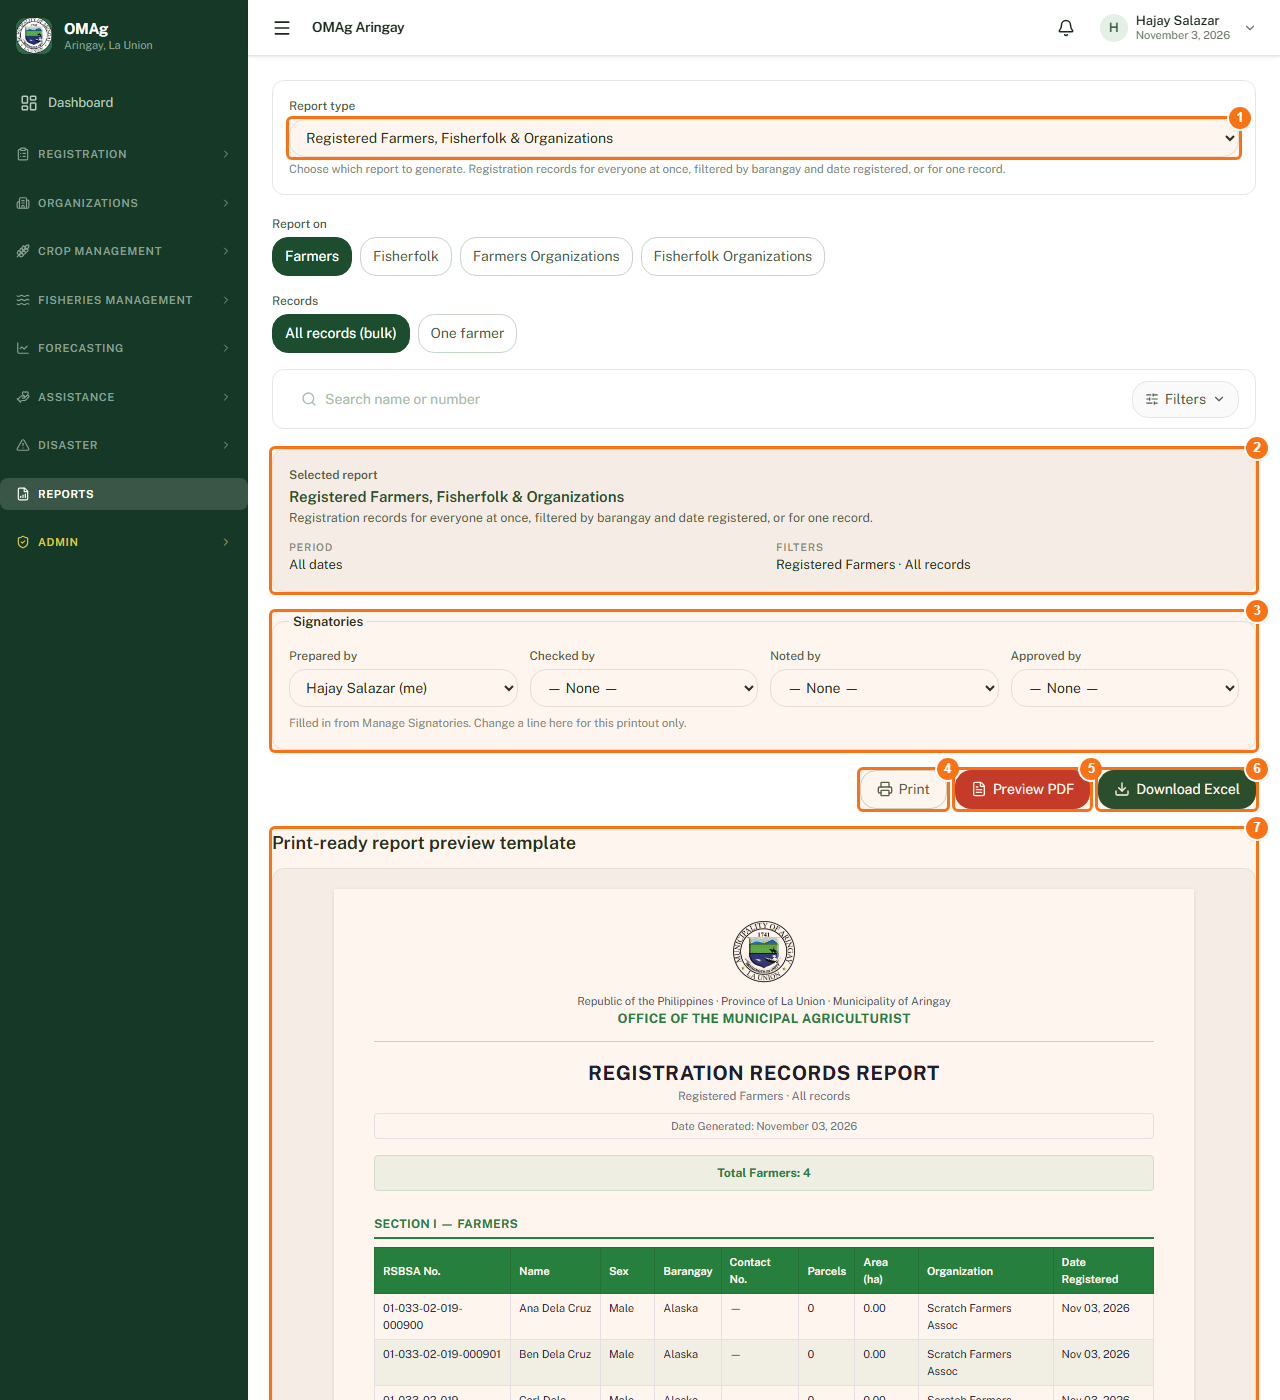
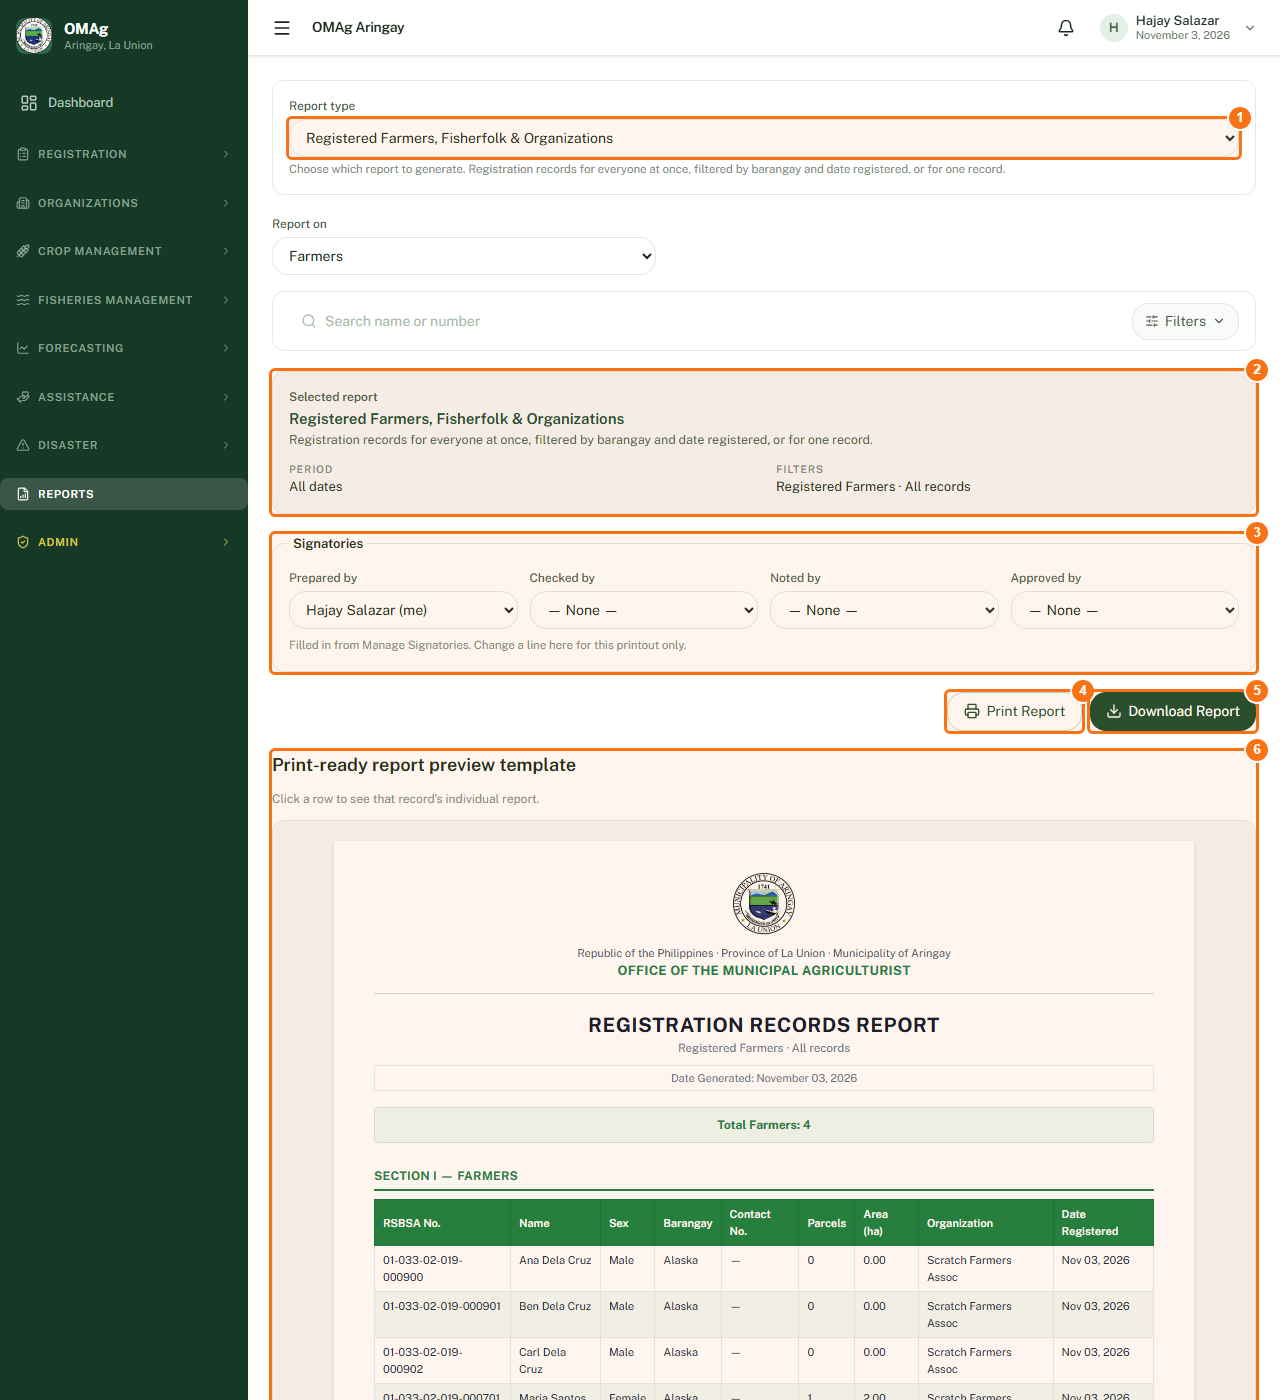
Manual and Help: Print Report / Download Report, the Report on box and the individual report

Changed region(s): [[0.1875, 0.1536, 1.0, 1.0], [0.5, 0.1536, 0.5625, 0.1843], [0.5938, 0.1536, 0.625, 0.1843]]

diff --git a/oma-frontend/src/pages/Manual/manualScreens.js b/oma-frontend/src/pages/Manual/manualScreens.js
@@ -2940,21 +2940,16 @@ export default {
    },
    {
     "n": 4,
-    "label": "Print",
-    "desc": "Opens the report as the same PDF as the preview, ready to print."
+    "label": "Print Report",
+    "desc": "Opens the report as the same PDF as the preview, with the signature lines, ready to print."
    },
    {
     "n": 5,
-    "label": "Preview PDF",
-    "desc": "Shows the report as a PDF to read on screen. The document is titled with the period covered."
+    "label": "Download Report",
+    "desc": "Saves the same report as a PDF file."
    },
    {
     "n": 6,
-    "label": "Download Excel",
-    "desc": "Saves the rows of the report as an Excel file."
-   },
-   {
-    "n": 7,
     "label": "Print-ready preview",
     "desc": "The report as it will print: the letterhead, the title, the period, the tables and the signature lines of the signers you chose. It changes as you change the filters or the signers."
    }
@@ -2975,53 +2970,43 @@ export default {
    },
    {
     "n": 2,
-    "label": "What to report",
-    "desc": "Choose Farmers, Fisherfolk, Farmers Organizations or Fisherfolk Organizations."
+    "label": "Report on",
+    "desc": "Chooses what the report is about: Farmers, Fisherfolk, Farmers Organizations or Fisherfolk Organizations."
    },
    {
     "n": 3,
-    "label": "All records / One record",
-    "desc": "All records (bulk) reports everyone that matches the filters. One farmer (or fisherfolk, organization) searches one person and reports only that record."
+    "label": "Search box",
+    "desc": "Types a name or number to narrow the list. When the search leaves exactly one record, the report becomes that one record's individual report."
    },
    {
     "n": 4,
-    "label": "Search box",
-    "desc": "Type to find the person or organization to report on. The table updates as you type."
-   },
-   {
-    "n": 5,
     "label": "Filters",
     "desc": "Opens the filter row: Barangay and the Registered From / To dates."
    },
    {
-    "n": 6,
+    "n": 5,
     "label": "Selected report",
     "desc": "Repeats the report you chose, what it covers, the period and the filters applied right now."
    },
    {
-    "n": 7,
+    "n": 6,
     "label": "Signatories",
     "desc": "Who signs the report: Prepared by (you, to start with), Checked by, Noted by and Approved by. Choose a name from each list, or leave it on None. The names print at the foot of Print and Preview PDF (Download Excel has no signature lines). The choice is for this printout only; the Admin keeps the names under Admin > Signatories."
    },
    {
+    "n": 7,
+    "label": "Print Report",
+    "desc": "Opens the report as the same PDF as the preview, with the signature lines, ready to print."
+   },
+   {
     "n": 8,
-    "label": "Print",
-    "desc": "Opens the report as the same PDF as the preview, ready to print."
+    "label": "Download Report",
+    "desc": "Saves the same report as a PDF file."
    },
    {
     "n": 9,
-    "label": "Preview PDF",
-    "desc": "Shows the report as a PDF to read on screen. The document is titled with the period covered."
-   },
-   {
-    "n": 10,
-    "label": "Download Excel",
-    "desc": "Saves the rows of the report as an Excel file."
-   },
-   {
-    "n": 11,
     "label": "Print-ready preview",
-    "desc": "The report as it will print: the letterhead, the title, the period, the tables and the signature lines of the signers you chose. It changes as you change the filters or the signers."
+    "desc": "The report as it will print: the letterhead, the title, the period, the tables and the signature lines of the signers you chose. It changes as you change the filters or the signers. Click a row to see that one record's individual report."
    }
   ]
  },
@@ -3055,21 +3040,16 @@ export default {
    },
    {
     "n": 5,
-    "label": "Print",
-    "desc": "Opens the report as the same PDF as the preview, ready to print."
+    "label": "Print Report",
+    "desc": "Opens the report as the same PDF as the preview, with the signature lines, ready to print."
    },
    {
     "n": 6,
-    "label": "Preview PDF",
-    "desc": "Shows the report as a PDF to read on screen. The document is titled with the period covered."
+    "label": "Download Report",
+    "desc": "Saves the same report as a PDF file."
    },
    {
     "n": 7,
-    "label": "Download Excel",
-    "desc": "Saves the rows of the report as an Excel file."
-   },
-   {
-    "n": 8,
     "label": "Print-ready preview",
     "desc": "The report as it will print: the letterhead, the title, the period, the tables and the signature lines of the signers you chose. It changes as you change the filters or the signers. Its columns: Barangay, farmer, organization, crop, area planted and area harvested (ha), the estimated and actual harvest dates, and the estimated yield and actual yield (kg)."
    }
@@ -3105,21 +3085,16 @@ export default {
    },
    {
     "n": 5,
-    "label": "Print",
-    "desc": "Opens the report as the same PDF as the preview, ready to print."
+    "label": "Print Report",
+    "desc": "Opens the report as the same PDF as the preview, with the signature lines, ready to print."
    },
    {
     "n": 6,
-    "label": "Preview PDF",
-    "desc": "Shows the report as a PDF to read on screen. The document is titled with the period covered."
+    "label": "Download Report",
+    "desc": "Saves the same report as a PDF file."
    },
    {
     "n": 7,
-    "label": "Download Excel",
-    "desc": "Saves the rows of the report as an Excel file."
-   },
-   {
-    "n": 8,
     "label": "Print-ready preview",
     "desc": "The report as it will print: the letterhead, the title, the period, the tables and the signature lines of the signers you chose. It changes as you change the filters or the signers. Its columns: Barangay, fisherfolk, organization, species, culture type, date stocked, harvest date, quantity (kg) and whether it is the final harvest of the cycle."
    }
@@ -3160,21 +3135,16 @@ export default {
    },
    {
     "n": 6,
-    "label": "Print",
-    "desc": "Opens the report as the same PDF as the preview, ready to print."
+    "label": "Print Report",
+    "desc": "Opens the report as the same PDF as the preview, with the signature lines, ready to print."
    },
    {
     "n": 7,
-    "label": "Preview PDF",
-    "desc": "Shows the report as a PDF to read on screen. The document is titled with the period covered."
+    "label": "Download Report",
+    "desc": "Saves the same report as a PDF file."
    },
    {
     "n": 8,
-    "label": "Download Excel",
-    "desc": "Saves the rows of the report as an Excel file."
-   },
-   {
-    "n": 9,
     "label": "Print-ready preview",
     "desc": "The report as it will print: the letterhead, the title, the period, the tables and the signature lines of the signers you chose. It changes as you change the filters or the signers. Its columns: Reference number, fisherfolk, barangay, stock or cycle, disaster type, date of occurrence, volume lost (kg), total loss, status and the date logged."
    }
@@ -3195,53 +3165,43 @@ export default {
    },
    {
     "n": 2,
-    "label": "Kind of organization",
-    "desc": "Choose Farmers Organizations or Fisherfolk Organizations."
+    "label": "Report on",
+    "desc": "Chooses Farmers Organizations or Fisherfolk Organizations."
    },
    {
     "n": 3,
-    "label": "All / One organization",
-    "desc": "All organizations reports every distribution; One organization searches one and reports only its own."
-   },
-   {
-    "n": 4,
     "label": "Search box",
     "desc": "Type to find the organization. The table updates as you type."
    },
    {
-    "n": 5,
+    "n": 4,
     "label": "Filters",
     "desc": "Opens or closes the filter row under the buttons. Each filter narrows the table, and Print Report / Download Report then give only what is shown."
    },
    {
-    "n": 6,
+    "n": 5,
     "label": "Selected report",
     "desc": "Repeats the report you chose, what it covers, the period and the filters applied right now."
    },
    {
-    "n": 7,
+    "n": 6,
     "label": "Signatories",
     "desc": "Who signs the report: Prepared by (you, to start with), Checked by, Noted by and Approved by. Choose a name from each list, or leave it on None. The names print at the foot of Print and Preview PDF (Download Excel has no signature lines). The choice is for this printout only; the Admin keeps the names under Admin > Signatories."
    },
    {
+    "n": 7,
+    "label": "Print Report",
+    "desc": "Opens the report as the same PDF as the preview, with the signature lines, ready to print."
+   },
+   {
     "n": 8,
-    "label": "Print",
-    "desc": "Opens the report as the same PDF as the preview, ready to print."
+    "label": "Download Report",
+    "desc": "Saves the same report as a PDF file."
    },
    {
     "n": 9,
-    "label": "Preview PDF",
-    "desc": "Shows the report as a PDF to read on screen. The document is titled with the period covered."
-   },
-   {
-    "n": 10,
-    "label": "Download Excel",
-    "desc": "Saves the rows of the report as an Excel file."
-   },
-   {
-    "n": 11,
     "label": "Print-ready preview",
-    "desc": "The report as it will print: the letterhead, the title, the period, the tables and the signature lines of the signers you chose. It changes as you change the filters or the signers. Its columns: Organization, date given, assistance, source agency, quantity, how many members received it, how many confirmed, and the status."
+    "desc": "The report as it will print: the letterhead, the title, the period, the tables and the signature lines of the signers you chose. It changes as you change the filters or the signers. Click a row to see that one record's individual report. Its columns: Organization, date given, assistance, source agency, quantity, how many members received it, how many confirmed, and the status."
    }
   ]
  },
@@ -5243,6 +5203,46 @@ export default {
     "n": 3,
     "label": "Row menu",
     "desc": "Edit and Delete for the name. Delete does not change reports that were already printed."
+   }
+  ]
+ },
+ "admin-report-individual": {
+  "audience": "admin",
+  "title": "Report: an individual report",
+  "purpose": "The report of one farmer, fisherfolk or organization.",
+  "image": "/manual/admin/report-individual.png",
+  "width": 1280,
+  "height": 1400,
+  "legend": [
+   {
+    "n": 1,
+    "label": "Individual report",
+    "desc": "Says whose report this is. It appears when you click a row of the list, or when your search leaves exactly one record."
+   },
+   {
+    "n": 2,
+    "label": "Show all records",
+    "desc": "Goes back to the list of all the records that match the search and the filters. (When the search found the record, clear the search instead.)"
+   },
+   {
+    "n": 3,
+    "label": "Signatories",
+    "desc": "Who signs the report: Prepared by (you, to start with), Checked by, Noted by and Approved by. Choose a name from each list, or leave it on None. The names print at the foot of Print and Preview PDF (Download Excel has no signature lines). The choice is for this printout only; the Admin keeps the names under Admin > Signatories."
+   },
+   {
+    "n": 4,
+    "label": "Print Report",
+    "desc": "Prints this individual report as a PDF with the signature lines."
+   },
+   {
+    "n": 5,
+    "label": "Download Report",
+    "desc": "Saves this individual report as a PDF file."
+   },
+   {
+    "n": 6,
+    "label": "Print-ready preview",
+    "desc": "The individual report as it will print: the details of the record, then its parcels and organizations (or members), with the signature lines."
    }
   ]
  }

diff --git a/oma-frontend/src/pages/Manual/manualContent.js b/oma-frontend/src/pages/Manual/manualContent.js
@@ -172,14 +172,15 @@ const STAFF_GUIDES = (focal) => [
   {
     id: 'reports',
     title: 'Reports',
-    intro: 'Reports is one page for the official reports. Choose the report in the Report type box, set its filters, choose who signs it, then Preview PDF, Print or Download Excel.',
-    screens: ['admin-reports', 'admin-report-registered', 'admin-report-crop', 'admin-report-fisheries-production', 'admin-report-fisheries-disaster', 'admin-report-org-assistance'],
+    intro: 'Reports is one page for the official reports. Choose the report in the Report type box, set its filters, choose who signs it, then Print Report or Download Report.',
+    screens: ['admin-reports', 'admin-report-registered', 'admin-report-individual', 'admin-report-crop', 'admin-report-fisheries-production', 'admin-report-fisheries-disaster', 'admin-report-org-assistance'],
     steps: [
       'Open Reports. In the Report type box choose a report: Registered Farmers, Fisherfolk & Organizations; Crop Records Harvested; Fisheries Production Harvested; Fisheries Disaster Reports; Crop / Parcel Disaster Reports; Organization Assistance. The filters under it change with the report.',
-      'Set what to report and the filters (barangay, dates, crop or species and so on). The registered and the assistance reports can cover all records or one person or organization, which you search for. The Selected report box repeats the report, the period and the filters you set.',
+      'Set what to report and the filters (barangay, dates, crop or species and so on). The Registered and the Organization Assistance reports have a Report on box (Farmers, Fisherfolk and the organizations) and a search bar. The Selected report box repeats the report, the period and the filters you set.',
+      'To report on just one farmer, fisherfolk or organization, search for it or click its row in the print-ready preview. When the search leaves exactly one record, or when you click a row, the report becomes that one record\'s individual report and a bar above says so; Show all records goes back to the list (if the search found it, clear the search).',
       'In the Signatories block above the buttons, choose Prepared by (your own name to start with), Checked by, Noted by and Approved by from their lists, or leave one on None. Their names print at the foot of the report. The choice is for this printout only; the lists come from Admin > Signatories.',
       'The print-ready preview under the buttons shows the report as it will print, with the letterhead, the tables and the signature lines, and it changes as you change the filters or the signers.',
-      'Preview PDF shows the report as a PDF to read; Print gives the same PDF ready to print; Download Excel saves its rows as a spreadsheet, without signature lines.',
+      'Print Report prints the report and Download Report saves it as a PDF. Both are the report you see in the preview, with the signature lines.',
       'On the farmers, fisherfolk, organizations, crop and fisheries tables, set the filters first: Print Report and Download Report give exactly the rows the table shows.',
     ],
   },

diff --git a/oma-frontend/src/pages/Help/helpContent.js b/oma-frontend/src/pages/Help/helpContent.js
@@ -34,7 +34,7 @@ export const STEPS = [
   },
   {
     title: 'Generate reports',
-    desc: 'Reports is one page: choose the report in the Report type box and set its filters. The paper preview shows it as it will print. Pick who signs it in the Signatories block above the buttons, then preview it as a PDF, print it or download it.',
+    desc: 'Reports is one page: choose the report in the Report type box and set its filters. The paper preview shows it as it will print. Pick who signs it in the Signatories block above the buttons, then print it or download it.',
   },
 ]
 
@@ -196,11 +196,15 @@ export const SECTIONS = [
     items: [
       {
         q: 'How do I print or download a report?',
-        a: 'Open Reports and choose the report in the Report type box; the filters below it change with the report, so set the period and the rest there. The paper preview under the buttons shows the report as it will print and changes as you change the filters. Preview PDF shows it as a PDF, Print gives the same PDF ready to print, and Download Excel saves its rows.',
+        a: 'Open Reports and choose the report in the Report type box; the filters below it change with the report, so set the period and the rest there. The paper preview under the buttons shows the report as it will print and changes as you change the filters. Print Report prints it and Download Report saves it as a PDF: both are the report you see in the preview.',
+      },
+      {
+        q: 'How do I get the report of just one farmer, fisherfolk or organization?',
+        a: 'In Reports, choose the Registered report (or Organization Assistance) and either search for the person or organization, or click their row in the paper preview. When your search leaves exactly one record, or when you click a row, the report becomes that one record\'s individual report and a bar above says so. Press Show all records to go back to the list; if the search found it, clear the search instead. Print Report and Download Report then give the individual report.',
       },
       {
         q: 'How do I choose who signs a report?',
-        a: 'Above the Print, Preview PDF and Download Excel buttons, the Signatories block has four lists: Prepared by (your own name to start with), Checked by, Noted by and Approved by. Choose a name from each list, or leave it on None. The names are printed under their lines at the foot of Print and Preview PDF; Download Excel has no signature lines. What you choose is for that printout only, so choose again the next time. The names come from the list the Admin keeps.',
+        a: 'Above the Print Report and Download Report buttons, the Signatories block has four lists: Prepared by (your own name to start with), Checked by, Noted by and Approved by. Choose a name from each list, or leave it on None. The names are printed under their lines at the foot of the printed and downloaded report. What you choose is for that printout only, so choose again the next time. The names come from the list the Admin keeps.',
       },
       {
         q: 'How do I force harvest crops before a typhoon?',
